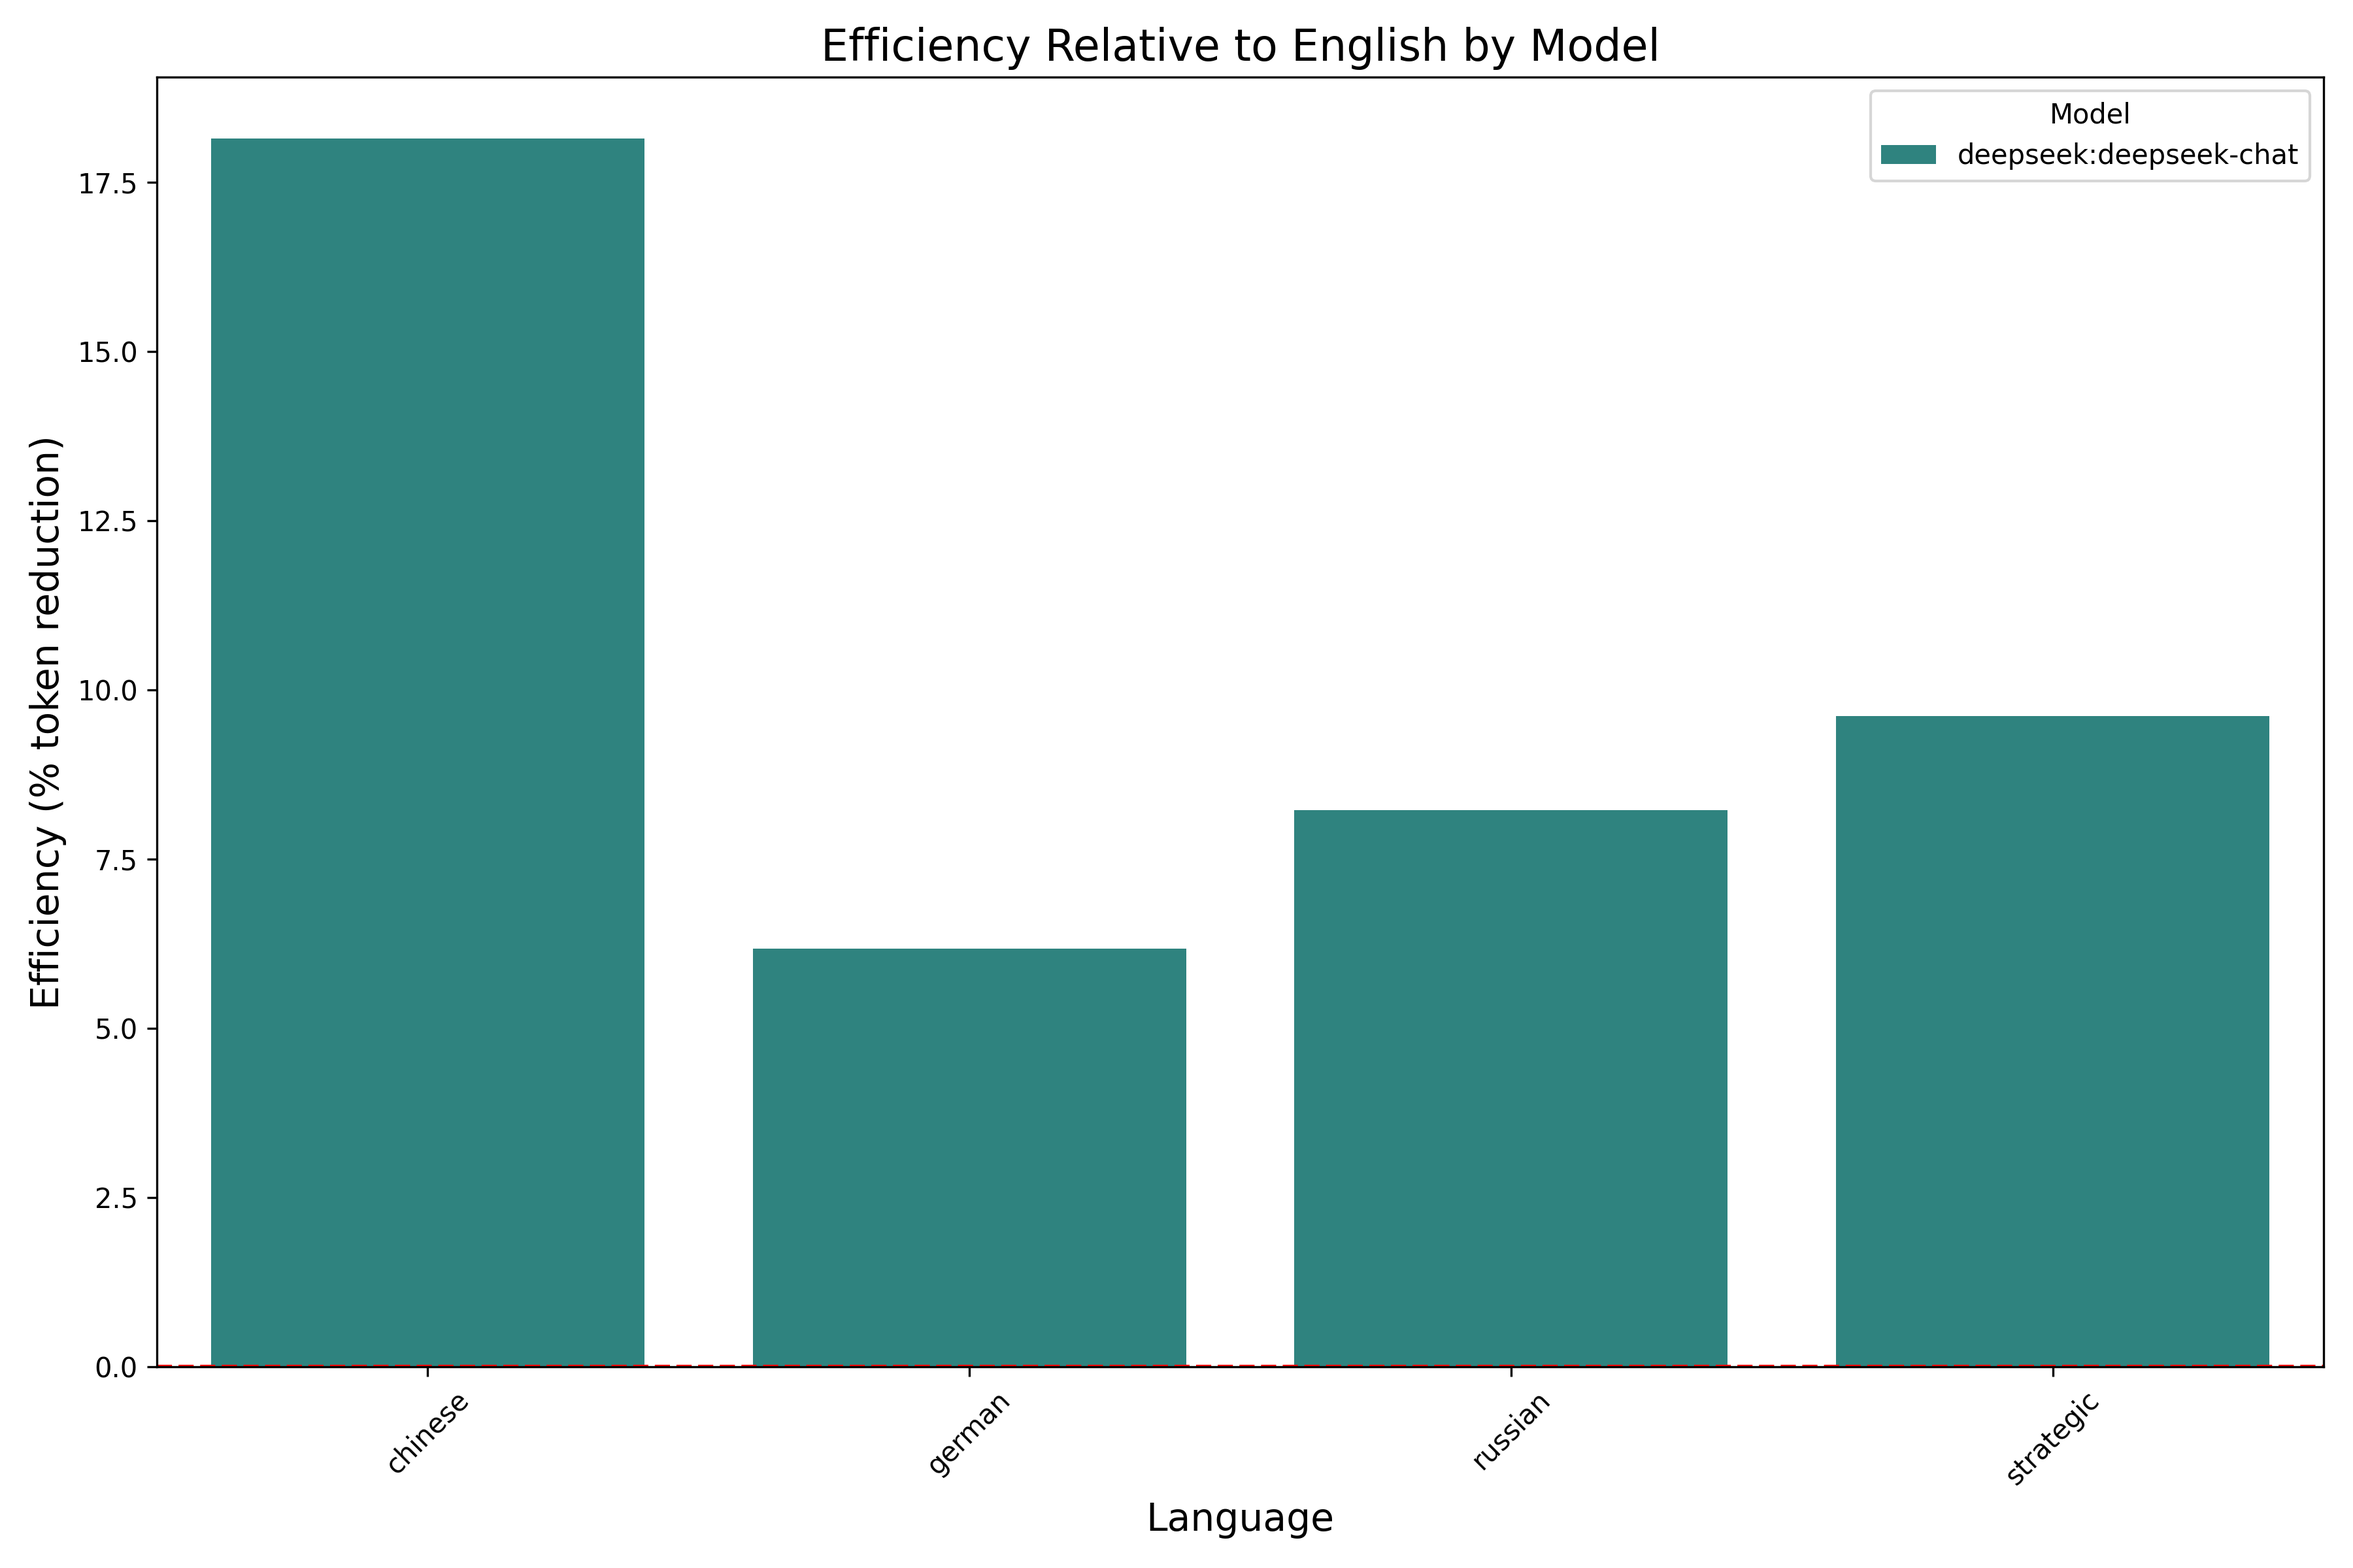
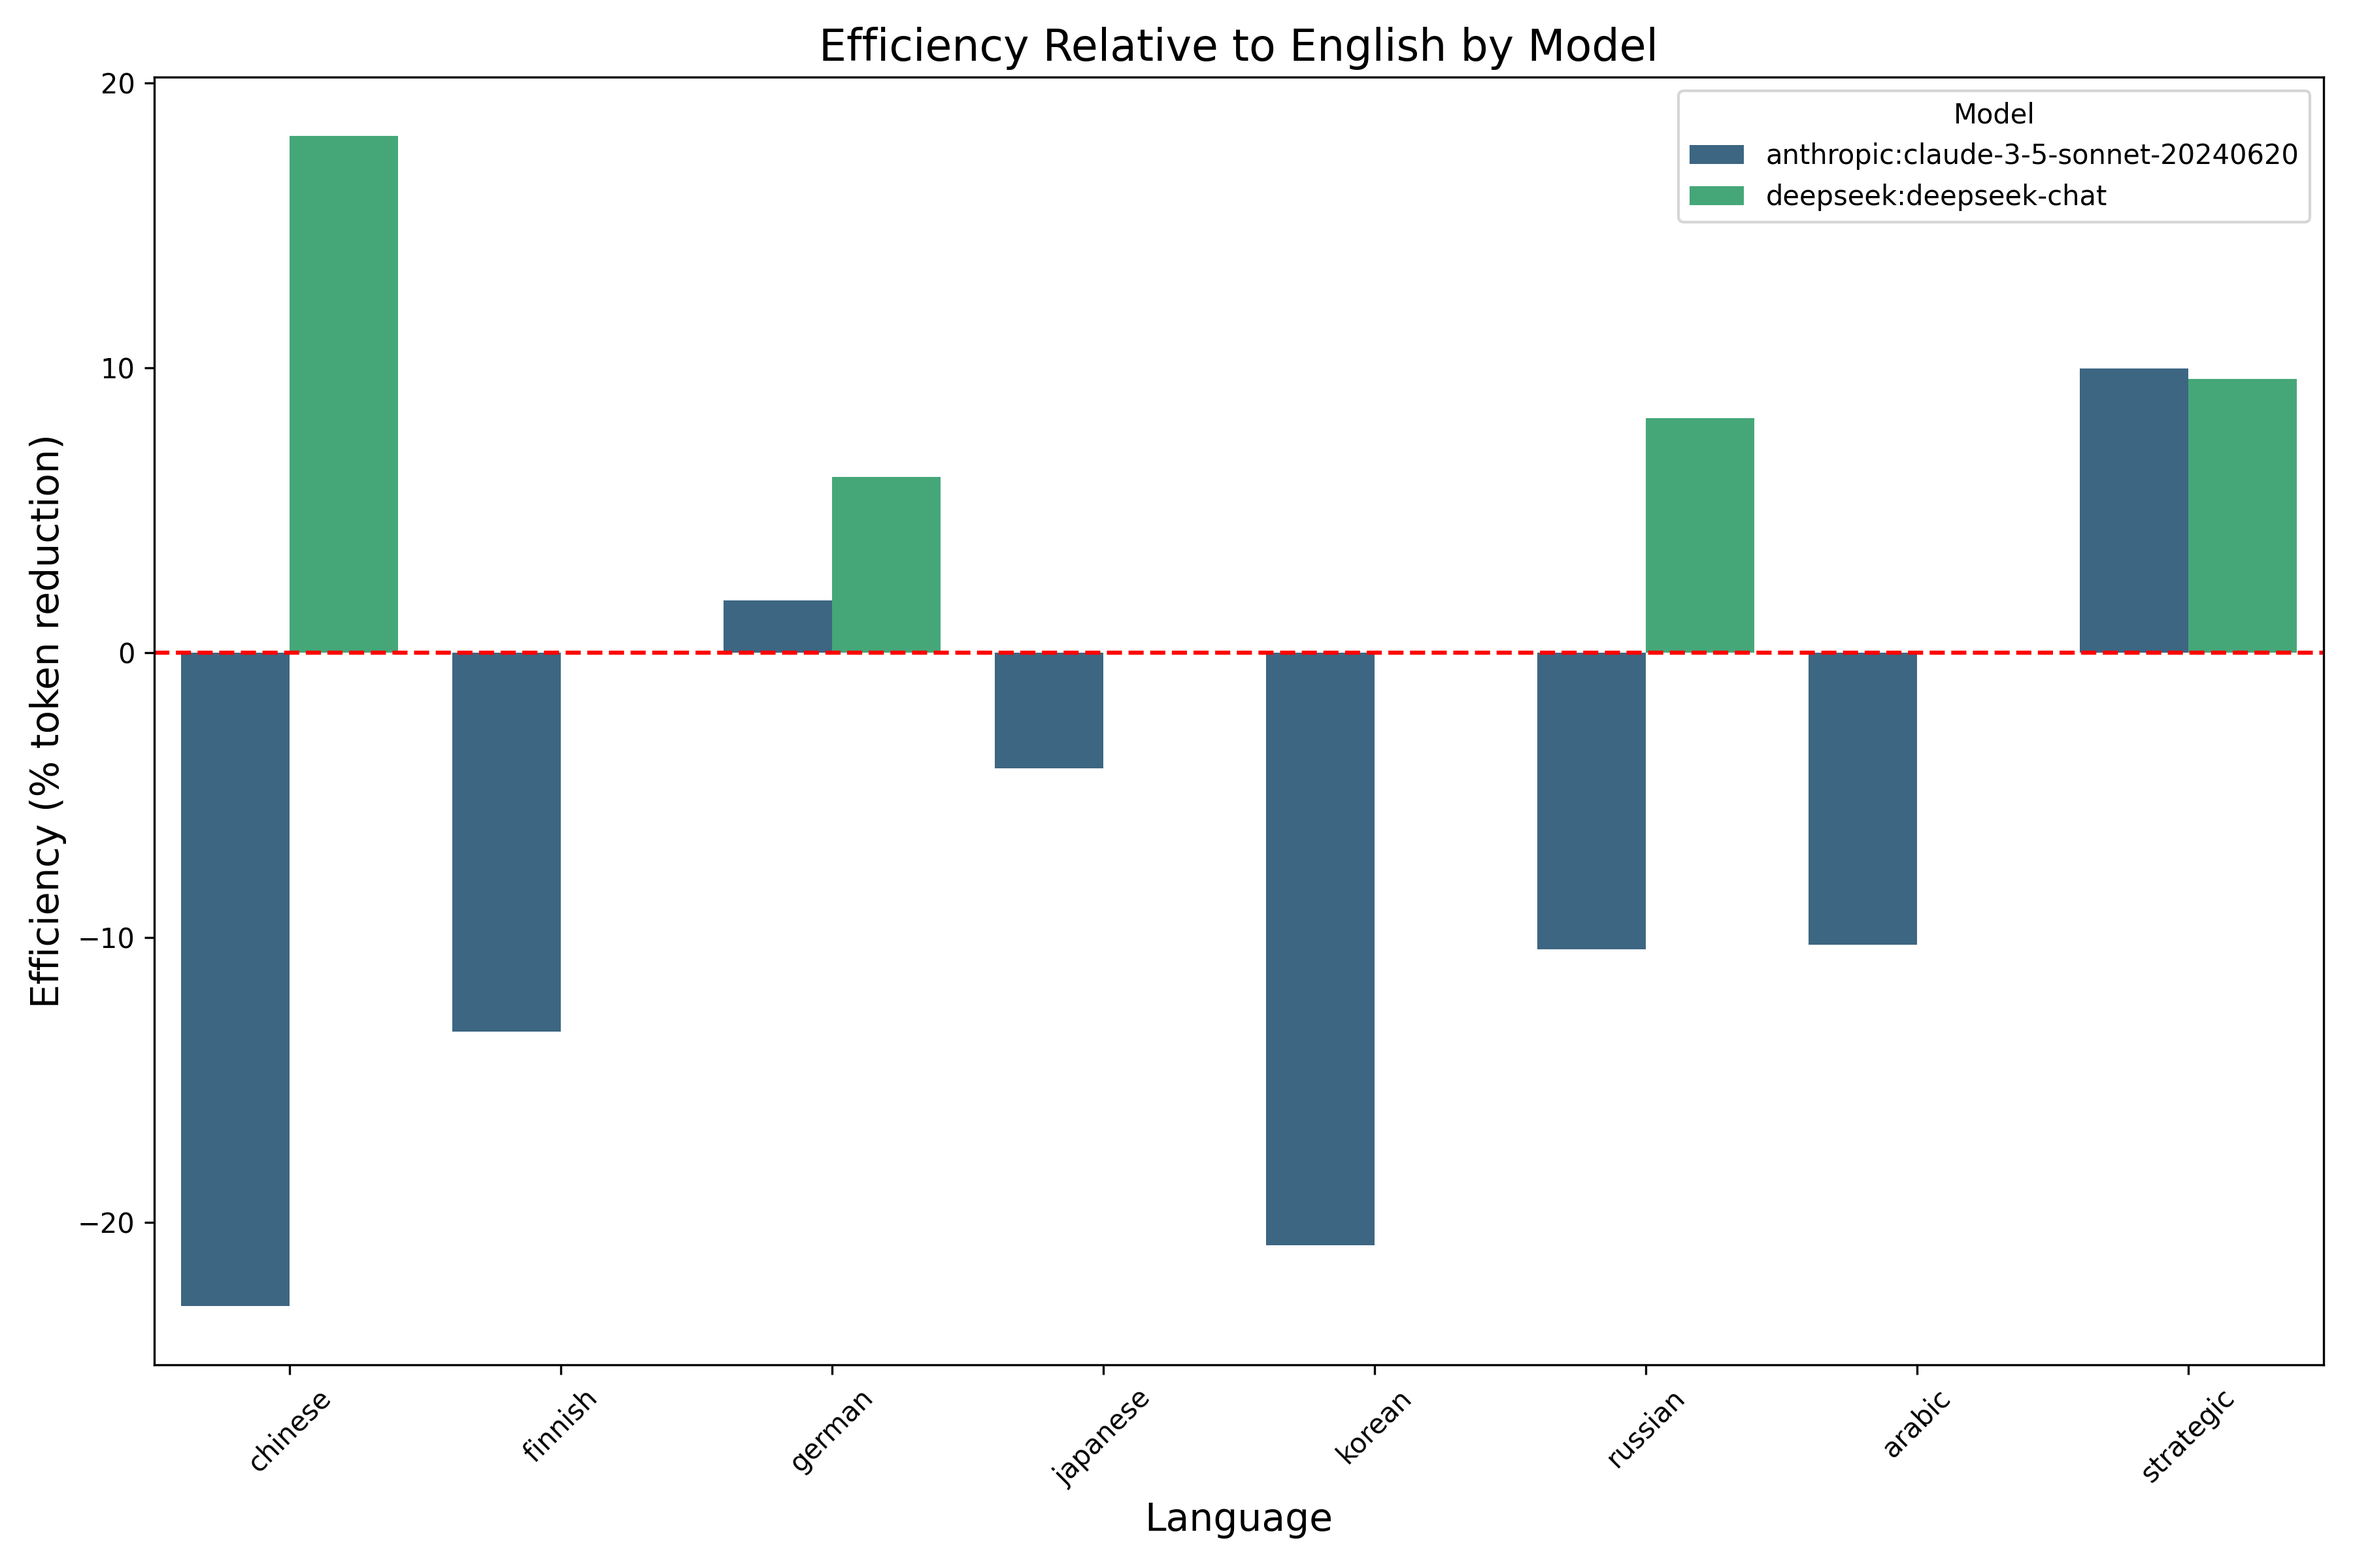
Fix model comparison visualizations to include both Anthropic and Deepseek data

diff --git a/create_deepseek_visualizations.py b/create_deepseek_visualizations.py
@@ -40,9 +40,13 @@ def load_results():
             with open(latest_file, 'r') as f:
                 anthropic_results = json.load(f)
             
-            # Filter for long-context QA problems only
+            # Filter for long-context QA problems (both HotpotQA and longqa)
             anthropic_df = pd.DataFrame(anthropic_results)
-            anthropic_df = anthropic_df[anthropic_df['problem_id'].str.startswith('longqa_')]
+            anthropic_df = anthropic_df[
+                (anthropic_df['problem_id'].str.startswith('hotpotqa_')) | 
+                (anthropic_df['problem_id'].str.startswith('longqa_')) |
+                (anthropic_df['benchmark'] == 'HotpotQA')
+            ]
             print(f"Loaded {len(anthropic_df)} Anthropic long-context QA results")
         else:
             print("No Anthropic interim results found")
